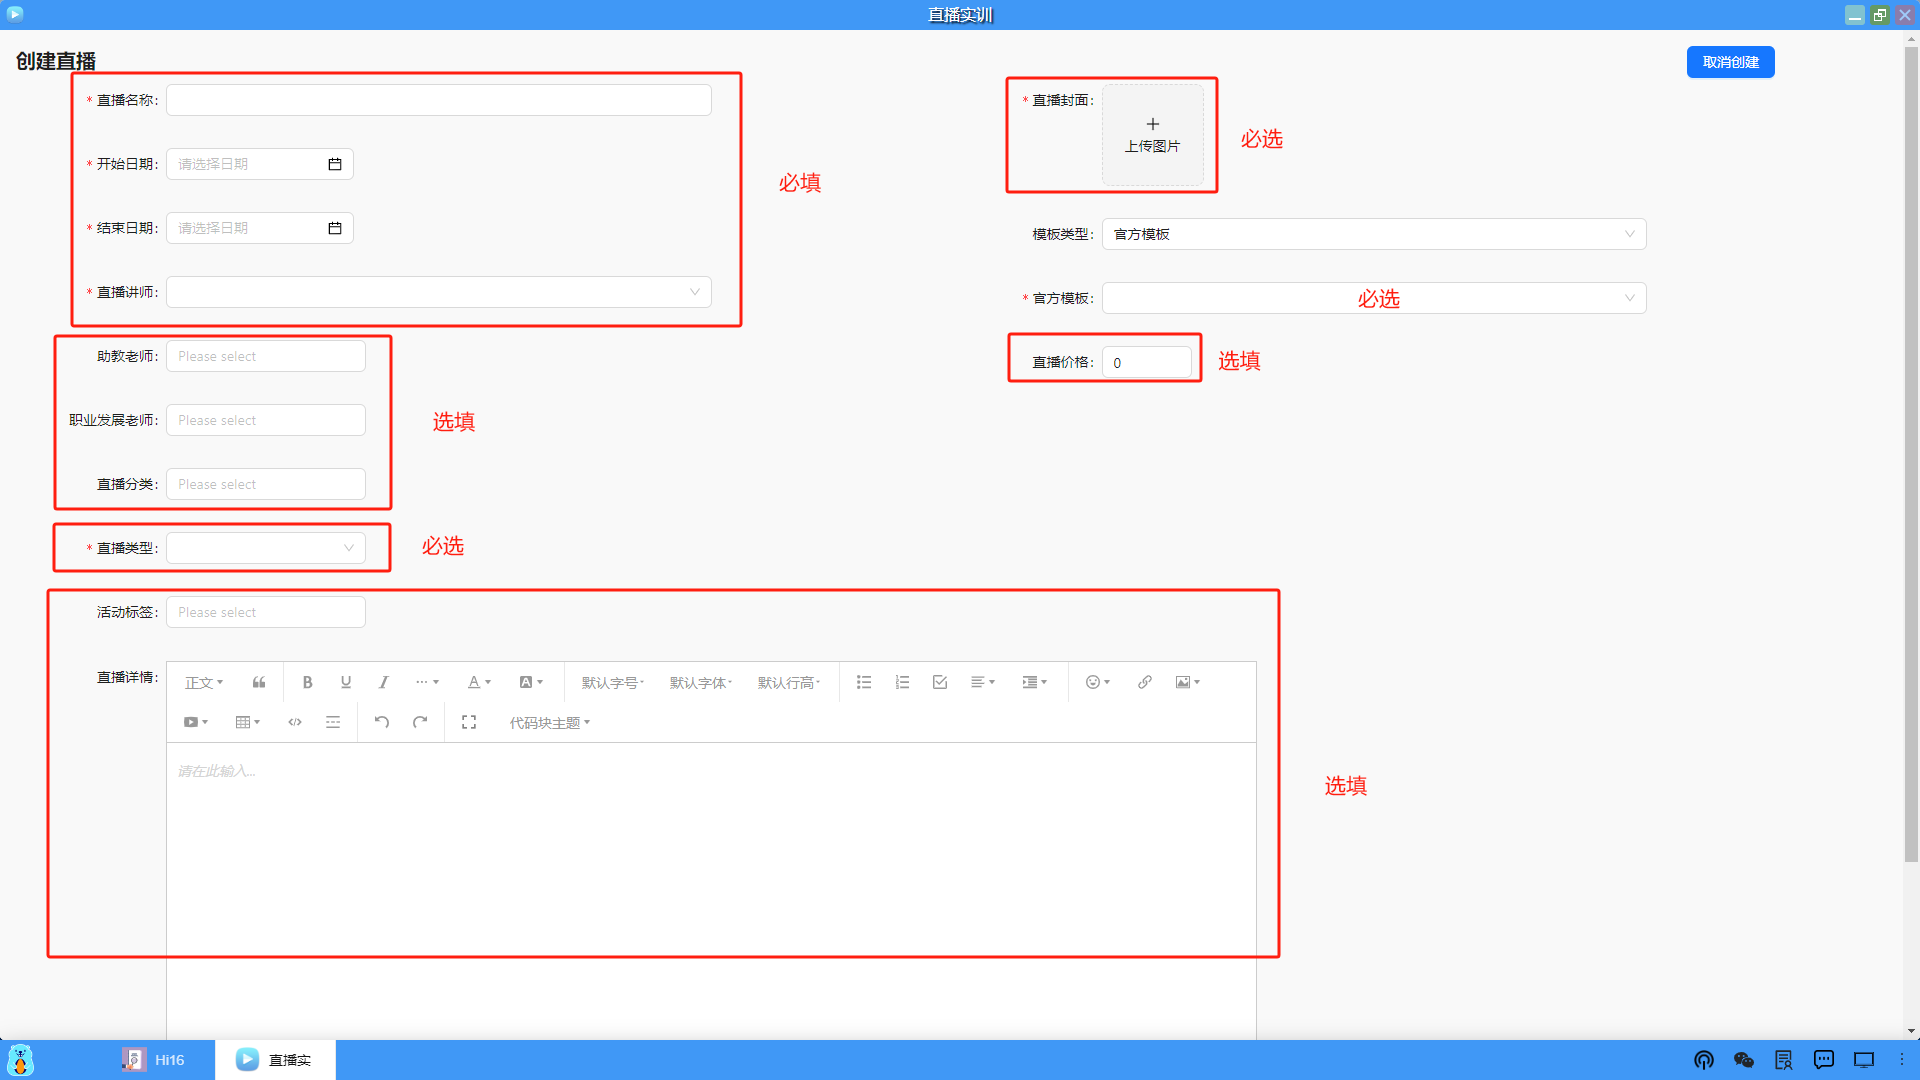
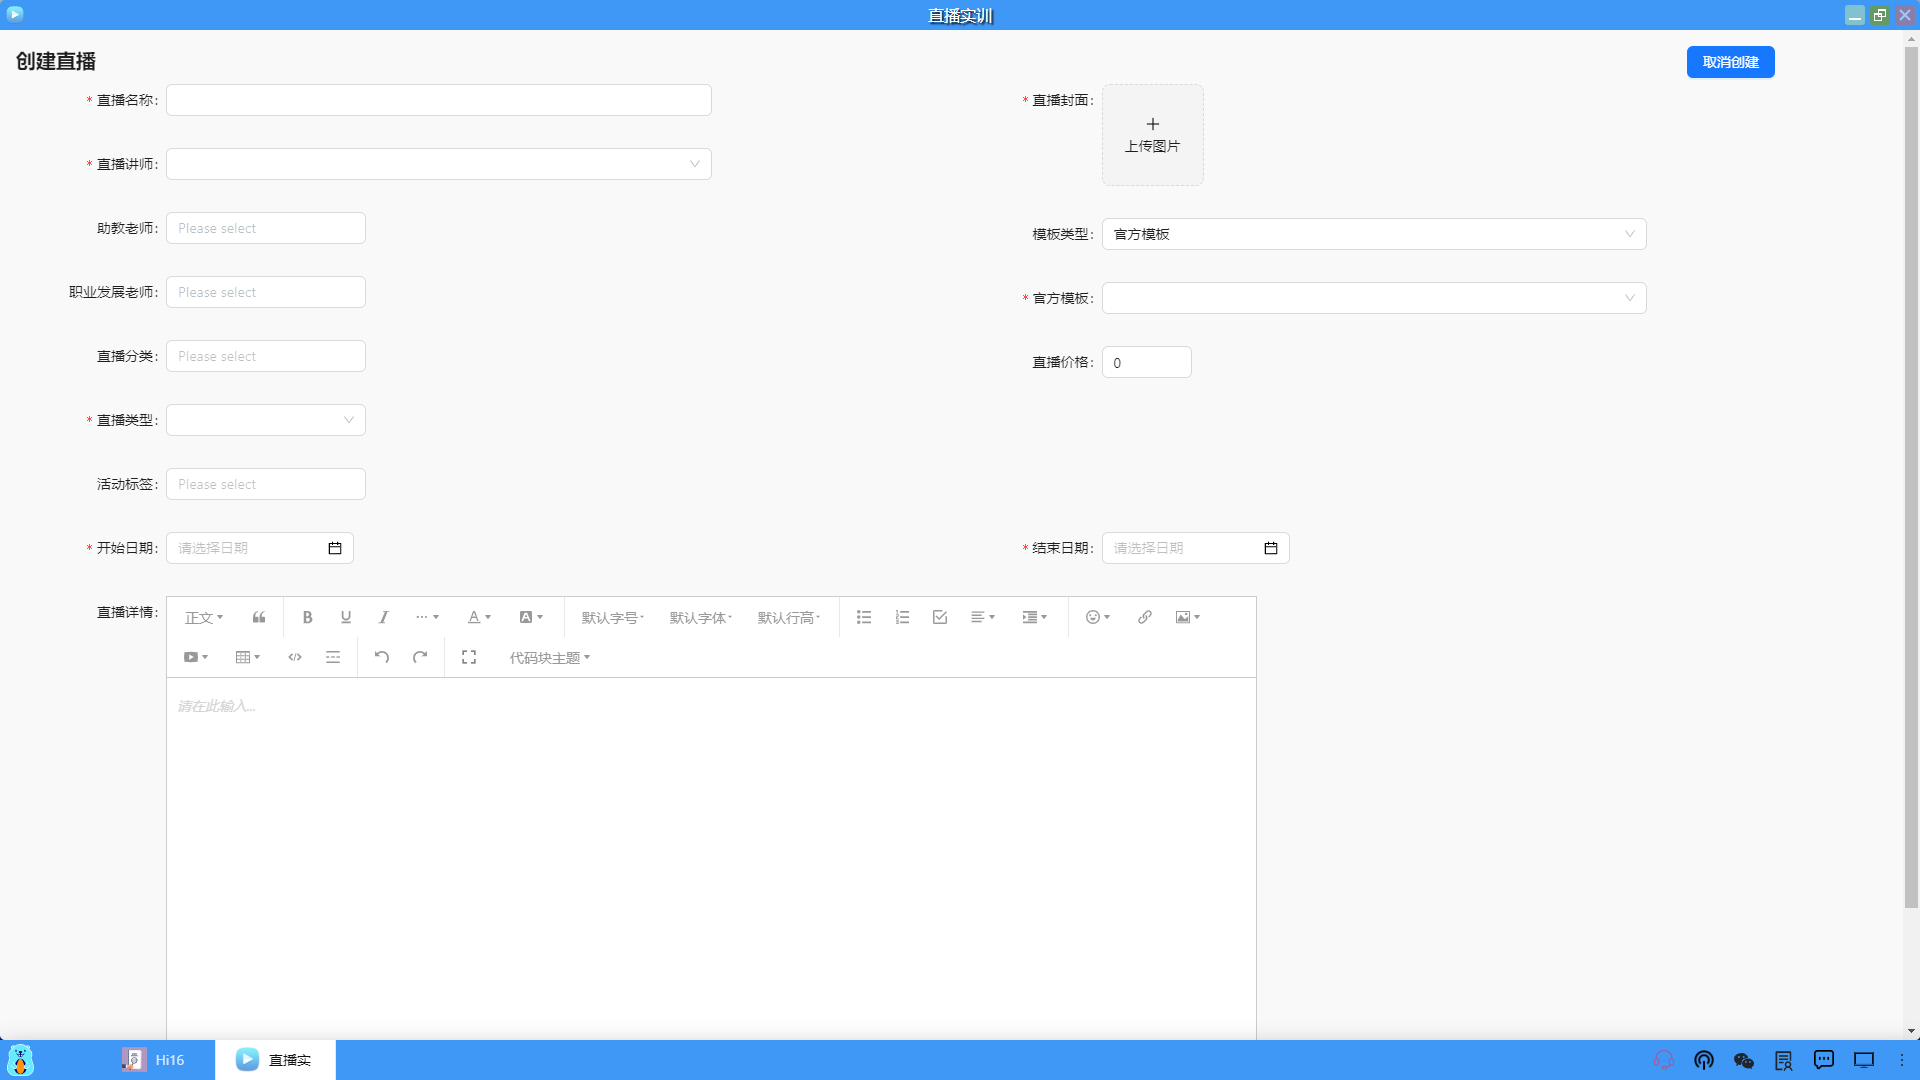
jack

diff --git a/manual/10/live_list.md b/manual/10/live_list.md
@@ -1,15 +1,22 @@
 ### 直播列表
 进入桌面上的直播模块，列出了当前所有创建的直播课程，状态分为正在直播、未直播和已结束三种。
+
 ![alt text](./live01.png)
 
 #### 1、加入直播
-对于未直播的课程，用户可以加入直播，然后等直播开始后进入直播间。
+（1）对于未直播的课程，用户可以点击"加入直播"，然后等直播开始后进入直播间。
+
 ![alt text](./live02.png)
 
+（2）直播开始后，按钮状态就变为"进入直播"，此时用户就可以进入直播间了。
+
 ![alt text](./live03.png)
+
+（3）进入直播间，显示的是二分屏，右侧是直播画面，左侧是直播互动区和在线用户。
 
 ![alt text](./live04.png)
 
 #### 2、直播回放
 对于直播结束的课程，平台会自动将直播过程录制成视频上传到云端，老师可以将视频拉取下来供学生看直播回放。
+
 ![alt text](./live05.png)

diff --git a/manual/10/create_live.md b/manual/10/create_live.md
@@ -1,5 +1,8 @@
 ### 创建直播
-老师点击“创建直播”按钮后，即可进入创建直播的页面，设置相应的直播信息后即可创建一个直播课程，等到了直播的开始时间，即可通过OBS软件进行推流直播了。
+（1）用户点击“创建直播”按钮后，即可进入创建直播的页面，设置相应的直播信息后即可创建一个直播课程，等到了直播的开始时间，即可通过OBS软件进行推流直播了。
+
 ![alt text](./live06.png)
+
+（2）在创建直播的页面中，用户填入的信息包括：直播名称、直播讲师、直播分类、直播类型、开始日期/结束日期（直播计划）、直播详情、直播封面、官方模板等，填写完毕后点击"创建"即可。
 
 ![alt text](./live07.png)

diff --git a/manual/10/live_mobile.md b/manual/10/live_mobile.md
@@ -1,5 +1,8 @@
 ### 移动端
-对于想使用手机端看直播课程的用户，可以通过扫码移动端的微信小程序二维码，进入小程序看直播课程。
+（1）对于想使用手机端看直播课程的用户，可以通过扫码移动端的微信小程序二维码，进入小程序看直播课程。
+
 ![alt text](./live14.png)
+
+（2）Hi168直播的小程序，和在PC端看直播的课程以及交互都是相同的。
 
 ![alt text](./live15.jpg)

diff --git a/manual/10/edit_live.md b/manual/10/edit_live.md
@@ -1,5 +1,8 @@
 ### 编辑直播
-老师对自己创建的直播课程，可以进入课程进行编辑，对直播信息进行修改。
+（1）用户对自己创建的直播课程，可以进入课程进行编辑，对直播信息进行修改。
+
 ![alt text](./live08.png)
+
+（2）用户可以修改直播的部分信息，添加直播计划，点击"保存"即可。
 
 ![alt text](./live09.png)

diff --git a/manual/10/operating_manual.md b/manual/10/operating_manual.md
@@ -1,5 +1,8 @@
 ### 操作手册
-OBS软件的直播使用，可以参考操作手册。
+（1）OBS软件的直播使用，可以参考操作手册。
+
 ![alt text](./live12.png)
+
+（2）Hi168创建直播推流的OBS流程
 
 ![alt text](./live13.png)

diff --git a/manual/10/live_config.md b/manual/10/live_config.md
@@ -1,3 +1,4 @@
 ### 直播配置
 由于直播采用的是OBS软件，需要在OBS中填写一些直播的配置信息，在直播配置中的信息可以复制到OBS中，具体使用可以参考操作手册。
+
 ![alt text](./live11.png)

diff --git a/manual/10/delete_live.md b/manual/10/delete_live.md
@@ -1,3 +1,4 @@
 ### 删除直播
-对于后面确定不需要直播的课程，老师可以将其删除。
+对于后面确定不需要直播的课程，用户可以将其删除。
+
 ![alt text](./live10.png)
